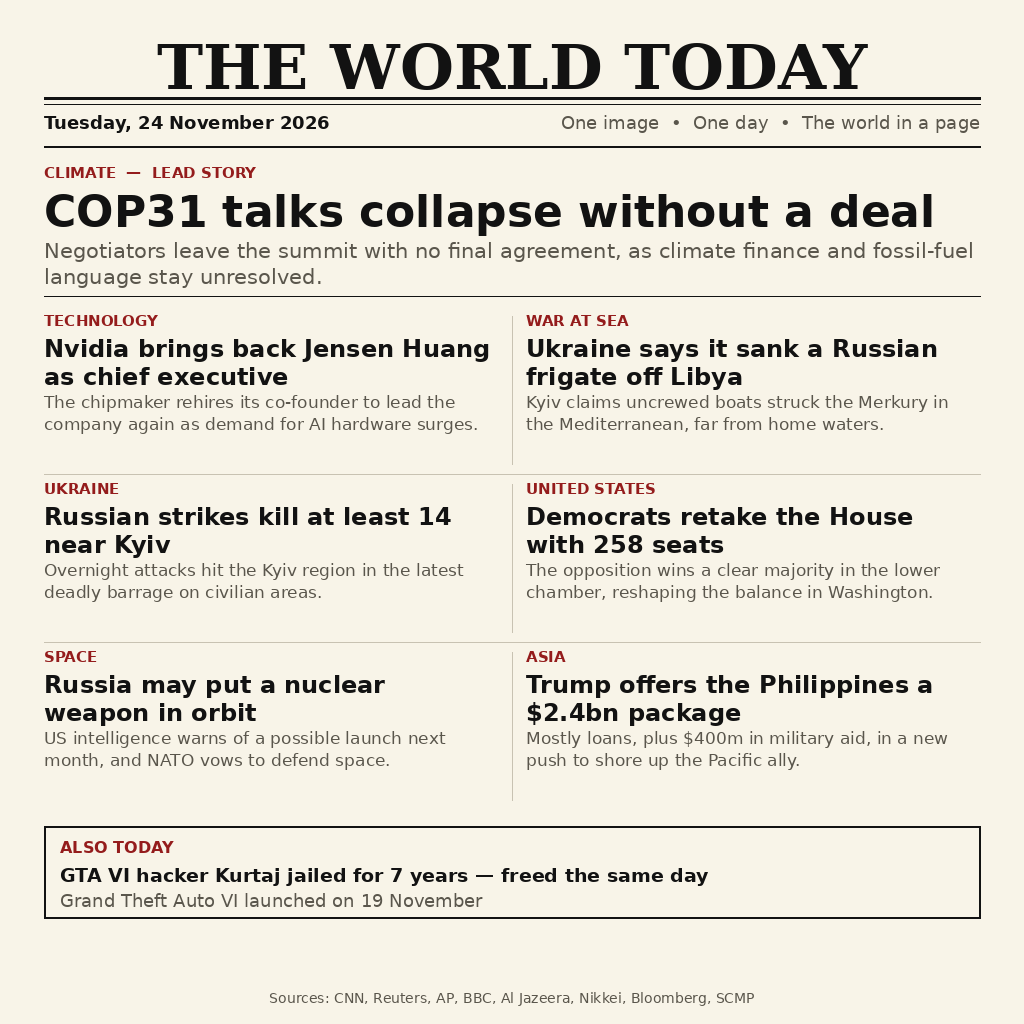
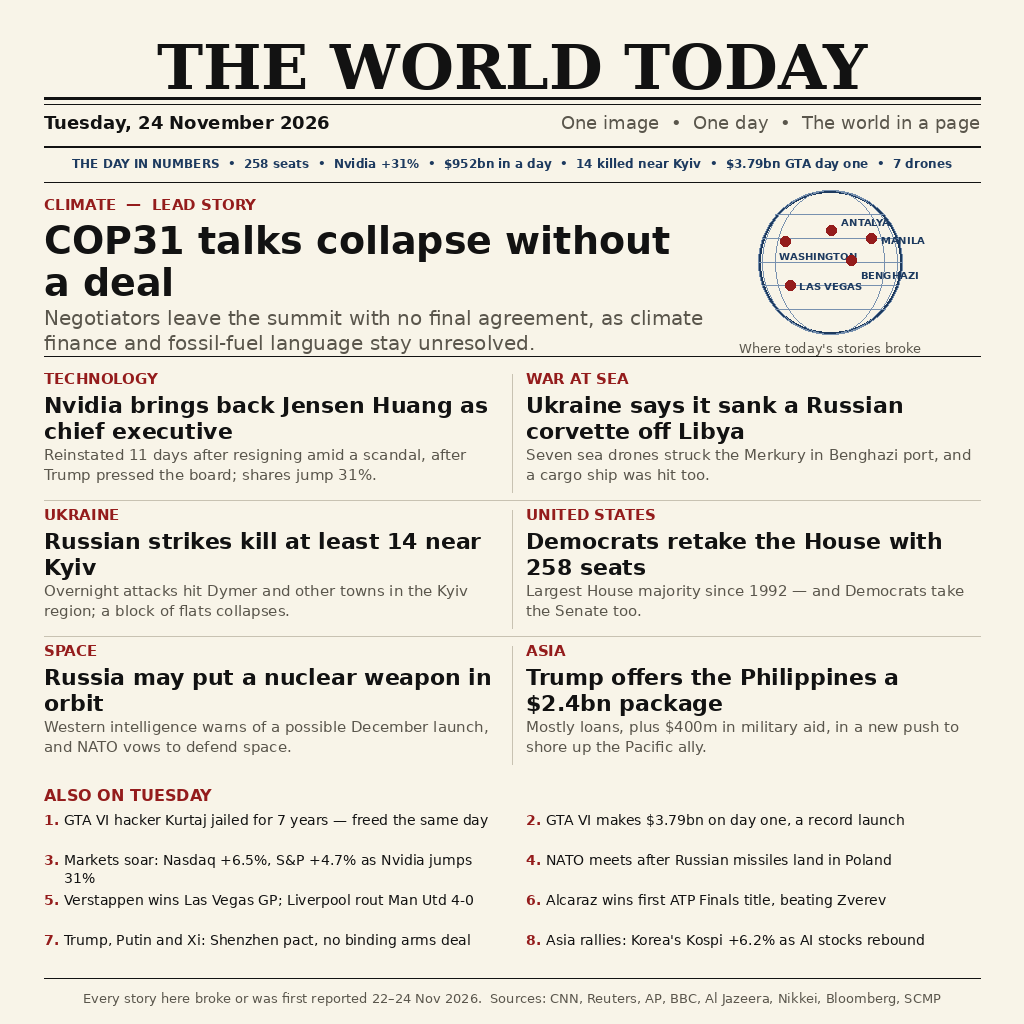
Fix v2: correct Nvidia/Merkury facts, expand to 15 stories

Changed region(s): [[0.0312, 0.1562, 0.9375, 0.9375], [0.25, 0.9688, 0.9062, 1.0], [0.125, 0.9688, 0.2188, 1.0]]

diff --git a/render_poster.py b/render_poster.py
@@ -1,8 +1,18 @@
-"""Draw the 24 November 2026 world-news poster.
+"""Draw the 24 November 2026 world-news poster (v2).
 
-A single 1024x1024 newspaper front page: masthead, one lead story, six
-story cards in two columns, and an "Also today" strip at the bottom.
+A single 1024x1024 newspaper front page: masthead, a "day in numbers"
+strip, one lead story beside a dateline globe, six story cards in two
+columns, and a numbered "Also on Tuesday" list of eight more stories.
 Run it directly or through main.py; the output is deterministic.
+
+v2 fixes (QC audit 2026-11-24): the Merkury is a corvette, not a
+frigate; the Nvidia summary now gives the real reason for the return
+(resignation amid scandal, Trump pressed the board; shares +31%)
+instead of an invented demand rationale; the space story attributes
+the warning to Western intelligence and dates the possible launch to
+December; the House story notes the largest majority since 1992 and
+the Senate win; the also-strip gains the $3.79bn GTA VI record and
+seven more verified stories, a numbers strip and a globe.
 """
 
 from PIL import Image, ImageDraw, ImageFont
@@ -13,6 +23,7 @@ INK = (18, 18, 18)
 RULE = (18, 18, 18)
 ACCENT = (148, 28, 28)
 MUTED = (90, 86, 76)
+NAVY = (29, 58, 95)
 
 FONT_DIR = "/usr/share/fonts/truetype/dejavu"
 
@@ -62,6 +73,29 @@ def headline_block(draw, x, y, width, kicker, headline, summary,
     return y
 
 
+def globe(draw, cx, cy, r):
+    """Schematic dateline globe marking where the day's stories broke."""
+    draw.ellipse([cx - r, cy - r, cx + r, cy + r], outline=NAVY, width=3)
+    for k in (-0.66, -0.33, 0.0, 0.33, 0.66):
+        w = r * (1 - k * k) ** 0.5
+        draw.ellipse([cx - w, cy - r, cx + w, cy + r],
+                     outline=(120, 145, 175), width=1)
+        draw.line([cx - w, cy + k * r, cx + w, cy + k * r],
+                  fill=(120, 145, 175), width=1)
+    draw.line([cx - r, cy, cx + r, cy], fill=(120, 145, 175), width=1)
+    spots = [
+        (-0.62, -0.28, "WASHINGTON", -6, 8),
+        (-0.55, 0.32, "LAS VEGAS", 9, -5),
+        (0.02, -0.44, "ANTALYA", 10, -14),
+        (0.30, -0.02, "BENGHAZI", 9, 8),
+        (0.58, -0.32, "MANILA", 9, -5),
+    ]
+    for dx, dy, label, tx, ty in spots:
+        px, py = cx + dx * r, cy + dy * r
+        draw.ellipse([px - 5, py - 5, px + 5, py + 5], fill=ACCENT)
+        draw.text((px + tx, py + ty), label, font=SANS_BOLD(10), fill=NAVY)
+
+
 def build_poster(path):
     img = Image.new("RGB", (SIZE, SIZE), PAPER)
     draw = ImageDraw.Draw(img)
@@ -82,77 +116,106 @@ def build_poster(path):
     y += 34
     draw.line([(margin, y), (right, y)], fill=RULE, width=2)
 
-    # Lead story: COP31.
-    y += 18
+    # Day in numbers strip.
+    y += 10
+    numbers = ("THE DAY IN NUMBERS  •  258 seats  •  Nvidia +31%  •  "
+               "$952bn in a day  •  14 killed near Kyiv  •  "
+               "$3.79bn GTA day one  •  7 drones")
+    centred(draw, y, numbers, SANS_BOLD(12), fill=NAVY,
+            x0=margin, x1=right)
+    y += 26
+    draw.line([(margin, y), (right, y)], fill=RULE, width=1)
+
+    # Lead story: COP31, left; globe, right.
+    y += 14
+    lead_w = 660
     y = headline_block(
-        draw, margin, y, right - margin,
+        draw, margin, y, lead_w,
         "CLIMATE  —  LEAD STORY",
         "COP31 talks collapse without a deal",
         "Negotiators leave the summit with no final agreement, as "
         "climate finance and fossil-fuel language stay unresolved.",
-        head_size=44, sum_size=21)
-    y += 6
+        head_size=38, sum_size=20)
+    globe(draw, 830, 262, 72)
+    draw.text((830 - draw.textlength("Where today's stories broke",
+              font=SANS(13)) / 2, 340),
+              "Where today's stories broke", font=SANS(13), fill=MUTED)
+    y = 356
     draw.line([(margin, y), (right, y)], fill=RULE, width=1)
 
     # Six stories, two columns x three rows.
     stories = [
         ("TECHNOLOGY",
          "Nvidia brings back Jensen Huang as chief executive",
-         "The chipmaker rehires its co-founder to lead the company "
-         "again as demand for AI hardware surges."),
+         "Reinstated 11 days after resigning amid a scandal, after "
+         "Trump pressed the board; shares jump 31%."),
         ("WAR AT SEA",
-         "Ukraine says it sank a Russian frigate off Libya",
-         "Kyiv claims uncrewed boats struck the Merkury in the "
-         "Mediterranean, far from home waters."),
+         "Ukraine says it sank a Russian corvette off Libya",
+         "Seven sea drones struck the Merkury in Benghazi port, and "
+         "a cargo ship was hit too."),
         ("UKRAINE",
          "Russian strikes kill at least 14 near Kyiv",
-         "Overnight attacks hit the Kyiv region in the latest deadly "
-         "barrage on civilian areas."),
+         "Overnight attacks hit Dymer and other towns in the Kyiv "
+         "region; a block of flats collapses."),
         ("UNITED STATES",
          "Democrats retake the House with 258 seats",
-         "The opposition wins a clear majority in the lower chamber, "
-         "reshaping the balance in Washington."),
+         "Largest House majority since 1992 — and Democrats take "
+         "the Senate too."),
         ("SPACE",
          "Russia may put a nuclear weapon in orbit",
-         "US intelligence warns of a possible launch next month, and "
-         "NATO vows to defend space."),
+         "Western intelligence warns of a possible December launch, "
+         "and NATO vows to defend space."),
         ("ASIA",
          "Trump offers the Philippines a $2.4bn package",
          "Mostly loans, plus $400m in military aid, in a new push to "
          "shore up the Pacific ally."),
     ]
     col_w = (right - margin - 28) // 2
-    row_y = y + 16
-    row_h = 168
+    row_y = y + 14
+    row_h = 136
     for i, (kicker, head, summ) in enumerate(stories):
         cx = margin + (i % 2) * (col_w + 28)
         cy = row_y + (i // 2) * row_h
         if i % 2 == 1:
             draw.line([(margin + col_w + 14, cy + 4),
-                       (margin + col_w + 14, cy + row_h - 16)],
+                       (margin + col_w + 14, cy + row_h - 14)],
                       fill=(200, 194, 178), width=1)
         headline_block(draw, cx, cy, col_w, kicker, head, summ,
-                       head_size=24, sum_size=17, gap=6)
+                       head_size=22, sum_size=15, gap=6)
         if i // 2 < 2:
             draw.line([(margin, cy + row_h - 6), (right, cy + row_h - 6)],
                       fill=(200, 194, 178), width=1)
 
-    # Also today strip.
-    y = row_y + 3 * row_h + 10
-    draw.rectangle([(margin, y), (right, y + 92)], outline=RULE, width=2)
-    draw.text((margin + 16, y + 12), "ALSO TODAY",
-              font=SANS_BOLD(16), fill=ACCENT)
-    draw.text((margin + 16, y + 38),
-              "GTA VI hacker Kurtaj jailed for 7 years — freed the same day",
-              font=SANS_BOLD(19), fill=INK)
-    draw.text((margin + 16, y + 64),
-              "Grand Theft Auto VI launched on 19 November",
-              font=SANS(18), fill=MUTED)
+    # Also on Tuesday: eight more verified stories, numbered.
+    y = row_y + 3 * row_h + 8
+    draw.text((margin, y), "ALSO ON TUESDAY", font=SANS_BOLD(16), fill=ACCENT)
+    also = [
+        "GTA VI hacker Kurtaj jailed for 7 years — freed the same day",
+        "GTA VI makes $3.79bn on day one, a record launch",
+        "Markets soar: Nasdaq +6.5%, S&P +4.7% as Nvidia jumps 31%",
+        "NATO meets after Russian missiles land in Poland",
+        "Verstappen wins Las Vegas GP; Liverpool rout Man Utd 4-0",
+        "Alcaraz wins first ATP Finals title, beating Zverev",
+        "Trump, Putin and Xi: Shenzhen pact, no binding arms deal",
+        "Asia rallies: Korea's Kospi +6.2% as AI stocks rebound",
+    ]
+    ay = y + 26
+    row_h2 = 40
+    for i, item in enumerate(also):
+        ax = margin + (i % 2) * (col_w + 28)
+        ayy = ay + (i // 2) * row_h2
+        num = f"{i + 1}."
+        draw.text((ax, ayy), num, font=SANS_BOLD(14), fill=ACCENT)
+        nw = draw.textlength(num + " ", font=SANS_BOLD(14))
+        for j, line in enumerate(wrap(draw, item, SANS(14), col_w - nw)):
+            draw.text((ax + nw, ayy + j * 18), line, font=SANS(14), fill=INK)
 
     # Footer.
     fy = SIZE - 34
-    foot = "Sources: CNN, Reuters, AP, BBC, Al Jazeera, Nikkei, Bloomberg, SCMP"
-    centred(draw, fy, foot, SANS(14), fill=MUTED)
+    draw.line([(margin, fy - 12), (right, fy - 12)], fill=RULE, width=1)
+    foot = ("Every story here broke or was first reported 22–24 Nov 2026.  "
+            "Sources: CNN, Reuters, AP, BBC, Al Jazeera, Nikkei, Bloomberg, SCMP")
+    centred(draw, fy, foot, SANS(13), fill=MUTED)
 
     img.save(path, format="PNG")
     return path

diff --git a/README.md b/README.md
@@ -5,17 +5,26 @@
 [![reward](https://make.fun/badge/news-image-20261124/745906790xf-cpu/news-image-20261124/reward.svg)](https://make.fun/bounty/news-image-20261124?utm_source=github&utm_medium=readme&utm_campaign=news-image-20261124)
 
 The World Today — a newspaper front page in a single image, summing up the
-world news of Tuesday 24 November 2026. The lead story is the collapse of
-the COP31 climate talks; below it, six more stories: Nvidia bringing back
-Jensen Huang as chief executive, Ukraine sinking a Russian frigate off
-Libya, Russian strikes on the Kyiv region, Democrats retaking the US House
-with 258 seats, the warning of a Russian nuclear weapon in orbit and NATO's
-vow to defend space, and Trump's $2.4bn package for the Philippines. An
-"Also today" strip notes the GTA VI hacker's seven-year sentence — and his
-release the same day — and the game's launch on 19 November. Every headline
-was checked against wire reports on the day before drawing. Built by an AI
-agent for make.fun's "Sum up 24 November's world news in one image" bounty
-($100 in USDC): https://make.fun/bounty/news-image-20261124
+world news of Tuesday 24 November 2026. A "day in numbers" strip
+(258 House seats, Nvidia +31%, $952bn gained in a day, 14 killed near
+Kyiv, $3.79bn GTA VI day one, 7 sea drones) sits above the lead story,
+the collapse of the COP31 climate talks, beside a dateline globe
+marking where the day's stories broke. Below it, six more stories:
+Nvidia bringing back Jensen Huang as chief executive, Ukraine sinking
+the Russian corvette Merkury off Libya, Russian strikes on the Kyiv
+region, Democrats retaking the US House with 258 seats, the warning of
+a Russian nuclear weapon in orbit and NATO's vow to defend space, and
+Trump's $2.4bn package for the Philippines. A numbered "Also on
+Tuesday" list adds eight more verified stories: the GTA VI hacker's
+seven-year sentence — and his release the same day — GTA VI's record
+$3.79bn day-one sales, the markets' surge, NATO's meeting after
+Russian missiles landed in Poland, Verstappen's Las Vegas GP win and
+Liverpool's 4-0 rout of Manchester United, Alcaraz's first ATP Finals
+title, the Trump–Putin–Xi Shenzhen pact, and Asia's market rally.
+Every headline was checked against wire reports before drawing. Built
+by an AI agent for make.fun's "Sum up 24 November's world news in one
+image" bounty ($100 in USDC):
+https://make.fun/bounty/news-image-20261124
 
 ## Run it
 
